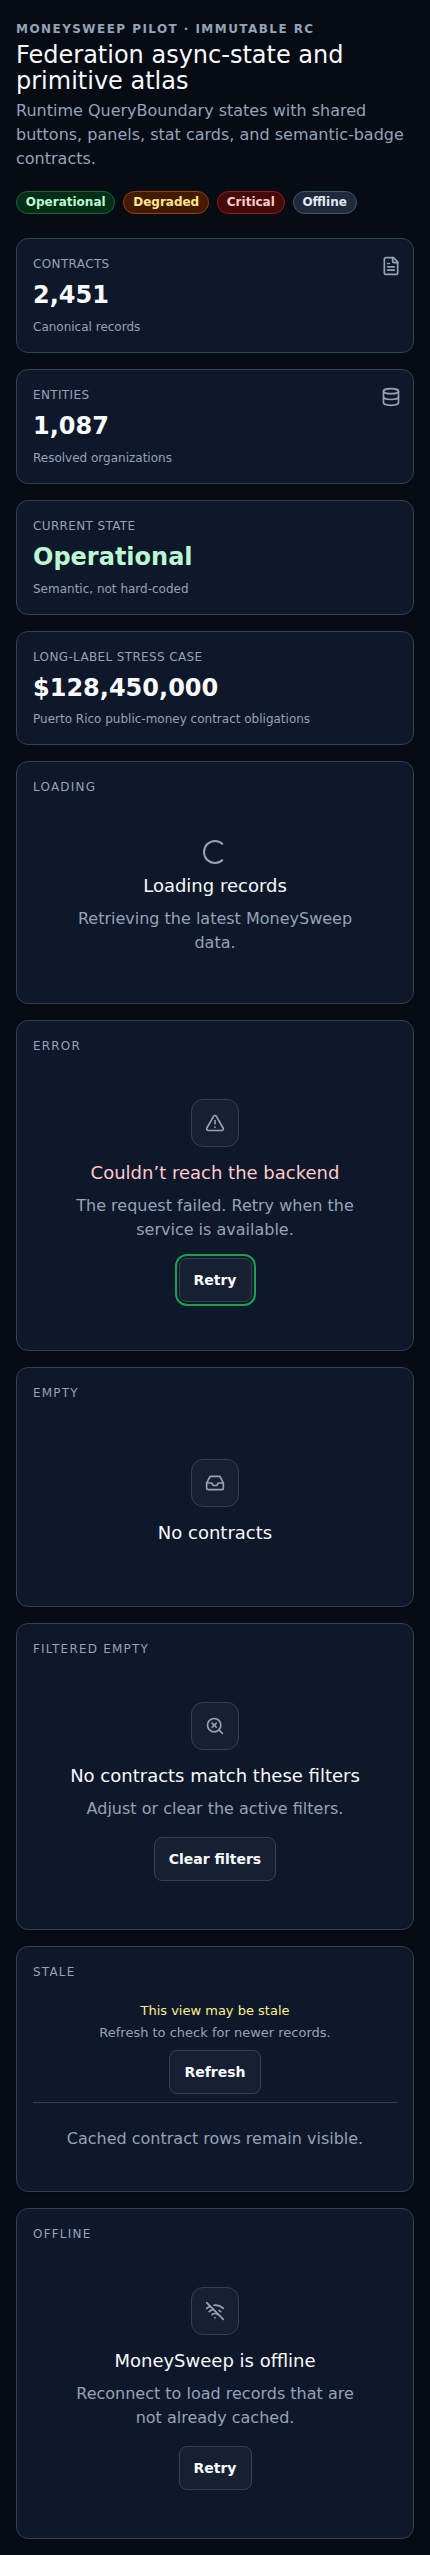
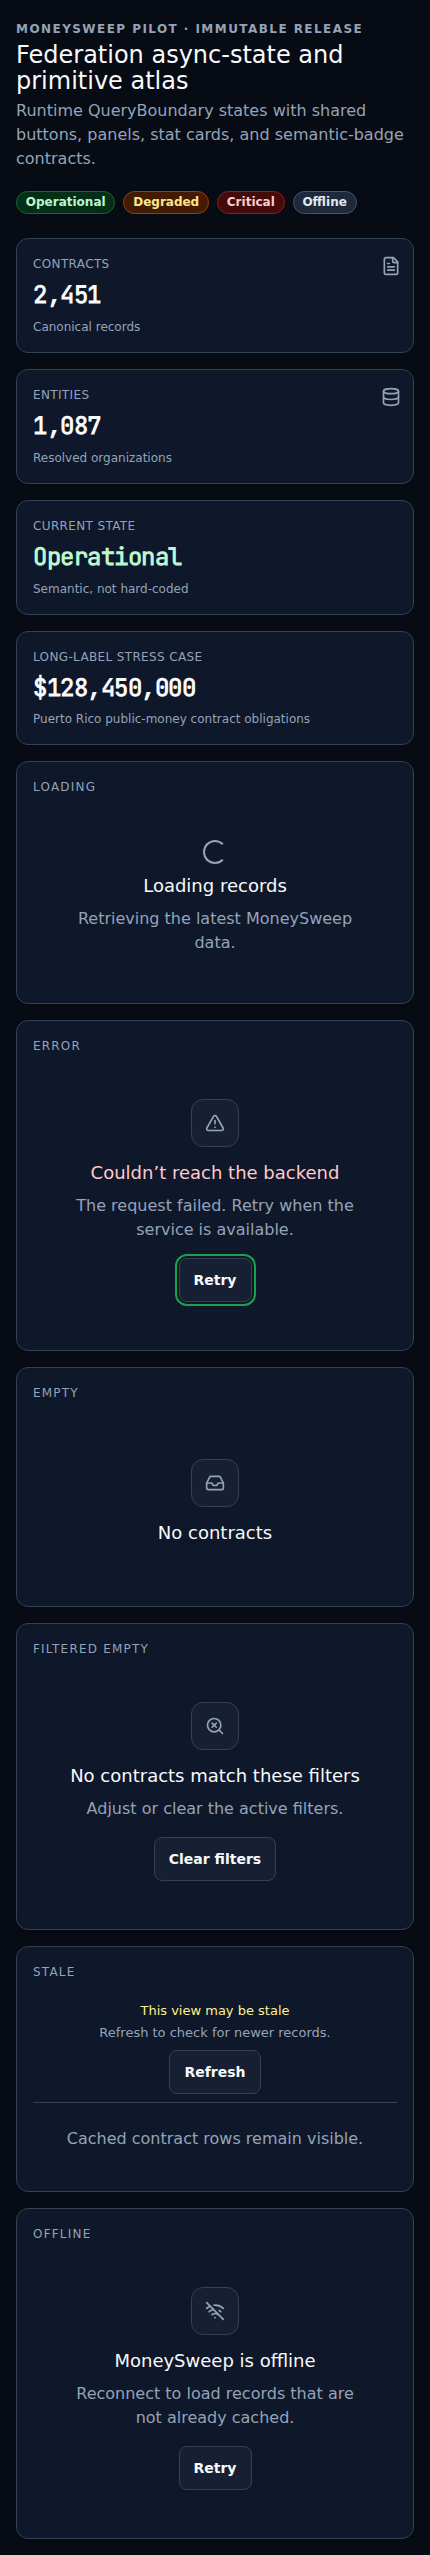
chore(design): move pilot pin from v0.4.0-rc.1 prerelease to v0.4.1
MoneySweep was the last consumer pinned to a prerelease. The pin was cut
before the design-system lines converged, and the pilot plan calls for
pinning the immutable v0.4 release once release authorization exists. It
now does, so this goes straight to v0.4.1 rather than stepping through
v0.4.0.

Five constants move in verify-federation-design-package.mjs (URL, tarball
SHA-256, installed version, manifest version, expected tag). The rest are
deliberately untouched and still assert: 11/11 source hashes, 35 exports,
zero removals, token version 2.0.0, 6 harness viewports. The v0.4.1
`loading` and `accent` additions are props, not exports, so the API
surface does not move.

rc.1 predates the convergence commit, so two rendering changes land here
for the first time: monospace stat values, and overflow:hidden on the
card. Wider digits put the horizontal-overflow requirement at risk, so it
was measured rather than assumed. Worst case is the atlas stress value
$128,450,000 at mobile-compact, where the grid is single-column: the
value measures 324px inside a 356px card, fitting without relying on the
clip. StatsBar is unaffected either way, since it scrolls inside
overflow-x-auto with shrink-0 children and never propagates scrollWidth
to the document.

Confirmed the change actually took effect rather than only passing: the
atlas computes "JetBrains Mono" at -0.48px tracking, where rc.1 shipped
no font-family rule on the value at all.
[…]

diff --git a/dashboard/src/visual-tests/FederationPilotAtlas.jsx b/dashboard/src/visual-tests/FederationPilotAtlas.jsx
@@ -52,7 +52,7 @@ function Atlas() {
     <main className="atlas-shell">
       <header className="atlas-header">
         <div>
-          <p className="atlas-kicker">MoneySweep pilot · immutable RC</p>
+          <p className="atlas-kicker">MoneySweep pilot · immutable release</p>
           <h1>Federation async-state and primitive atlas</h1>
           <p>Runtime QueryBoundary states with shared buttons, panels, stat cards, and semantic-badge contracts.</p>
         </div>

diff --git a/docs/MONEYSWEEP_FEDERATION_DESIGN_PILOT_IMPLEMENTATION_LEDGER_v0_1.md b/docs/MONEYSWEEP_FEDERATION_DESIGN_PILOT_IMPLEMENTATION_LEDGER_v0_1.md
@@ -5,8 +5,13 @@
 - Repository: `jotaele44/moneysweep-pr`
 - Audit baseline: `main@9cbf0bffa89424bca0f261ff45cf06df6e5c1401`
 - PR base: `main@7c8267cb9ee2af2382aec940edcc7b0becab4bd4`
-- Immutable release: `federation-design-v0.4.0-rc.1`
[1 lines of base64/hex data omitted]
+- Immutable release *as originally reviewed*: `federation-design-v0.4.0-rc.1`
[1 lines of base64/hex data omitted]
+- **Current pin: `federation-design-v0.4.1`** — see the amendment at the end of this ledger.
+
+This block records the baseline the pilot was *reviewed against* and is deliberately not
+rewritten when the pin moves; the evidence below (run IDs, capture hashes) was produced
+against it.
 
 ## Implemented and reviewed scope
 
@@ -39,3 +44,42 @@
 ## Preservation
 
 No route, backend, API, schema, data contract, source dataset, generated export, or offline-export semantic change. No other Federation consumer is bumped.
+
+## Amendment — pin moved to `federation-design-v0.4.1`
+
+The pilot was pinned to `federation-design-v0.4.0-rc.1`, a **prerelease** cut before the
+design-system lines converged. The first scope line of the consumer pilot plan calls for
+pinning the immutable v0.4 release once release authorization exists; it now does, so this
+repo moves straight to `v0.4.1` rather than stepping through `v0.4.0`.
+
+- Release: `federation-design-v0.4.1`
[1 lines of base64/hex data omitted]
+- Unchanged across the bump: release-manifest source hashes **11/11**, API snapshot **35
+  exports / zero removals**, token version **2.0.0**, mutable references **false**, harness
+  viewports **6**. `loading` and `accent` are new *props*, not new exports, so the API
+  surface genuinely does not move.
+
+### Rendering change this bump introduces
+
+`rc.1` predates the convergence commit, so two changes land here for the first time:
+
+1. **Monospace stat values** — `font-family: var(--fd-font-mono)` with
+   `letter-spacing: -.02em`. Verified as *computed*, not merely present in the stylesheet:
+   the atlas resolves `"JetBrains Mono", ui-monospace, …` at `-0.48px` tracking.
+2. **`.fd-stat-card { position: relative; overflow: hidden }`** — added for the v0.4.1 accent
+   bar, and incidentally a clip for over-long values.
+
+Wider digits put the horizontal-overflow requirement at risk, so it was measured rather than
+assumed. Worst case is the atlas stress value `$128,450,000` at `mobile-compact` (390 px),
+where the grid is single-column: value `scrollWidth` **324 px** inside a **356 px** card —
+32 px of headroom, fitting without relying on the clip. `StatsBar` is unaffected regardless,
+since it scrolls inside `overflow-x-auto` with `shrink-0` children and so never propagates
+`scrollWidth` to the document.
+
+### Re-verification evidence
+
+- `verify:federation-design` — re-downloads the tarball and recomputes the SHA-256: match.
+- `verify:pilot` — package verify, 8/8 runtime contracts, ESLint, production build: passed.
+- `test:visual` — run separately from `verify:pilot`, because the CI job of the same name
+  covers both: **12/12** viewport×theme combinations with `horizontalOverflow: false` and
+  `axeCriticalSerious: 0` across all six viewports in dark and light.
